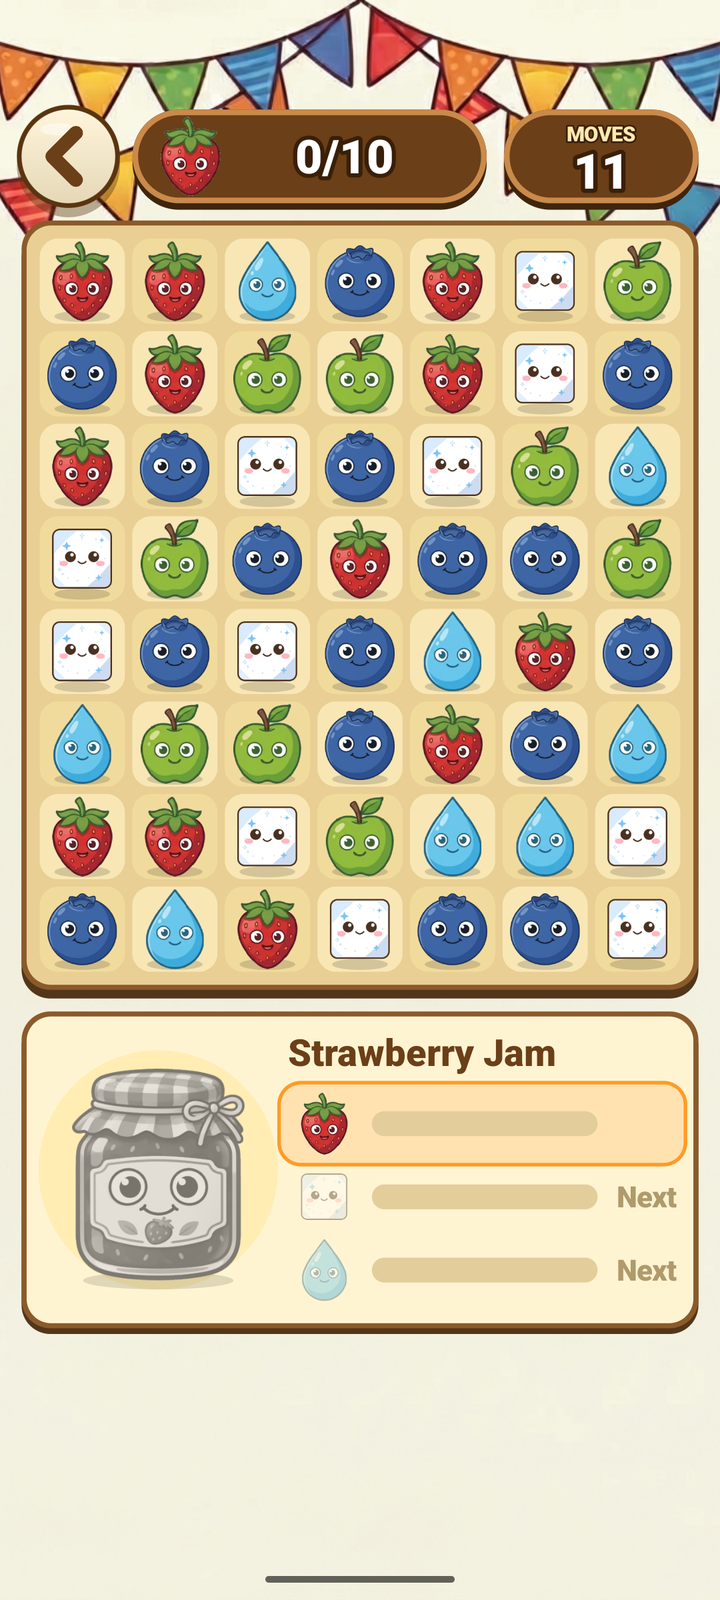
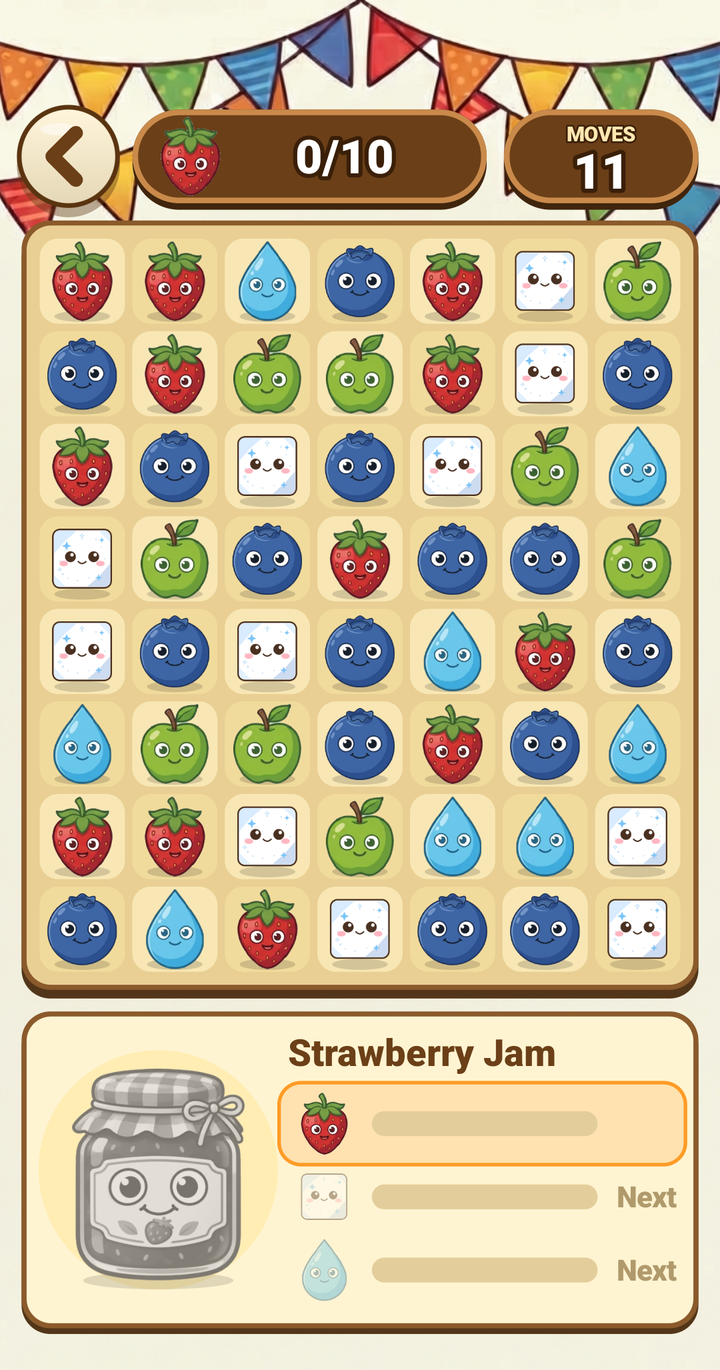
docs(readme): place screenshot after the game pitch
Lead with the project name and value, then show the gameplay screenshot with a short caption. Crop the unused bottom of the screenshot so the board and order card fill more of the frame.

diff --git a/README.md b/README.md
@@ -1,12 +1,14 @@
-<p align="center">
-  <img src="./assets/readme/screenshot.png" width="360" alt="Cottage Kitchen gameplay: a 7 by 8 board of smiling ingredients with a Strawberry Jam order card below">
-</p>
-
 # Cottage Kitchen
 
 A cosy cooking match-3 game for Android. Swap ingredients, harvest what a recipe asks for, and fill the order before you run out of moves. Fourteen dishes, 49 levels, and a recipe book that fills in as you cook.
 
 No account, no ads, no network access — just a board, a wooden spoon, and a very hungry cottage.
+
+<p align="center">
+  <img src="./assets/readme/screenshot.png" width="440" alt="Cottage Kitchen gameplay: a 7 by 8 board of smiling ingredients with a Strawberry Jam order card below">
+</p>
+
+<p align="center"><em>First order: harvest 10 strawberries in 11 moves.</em></p>
 
 ## The dishes
 
